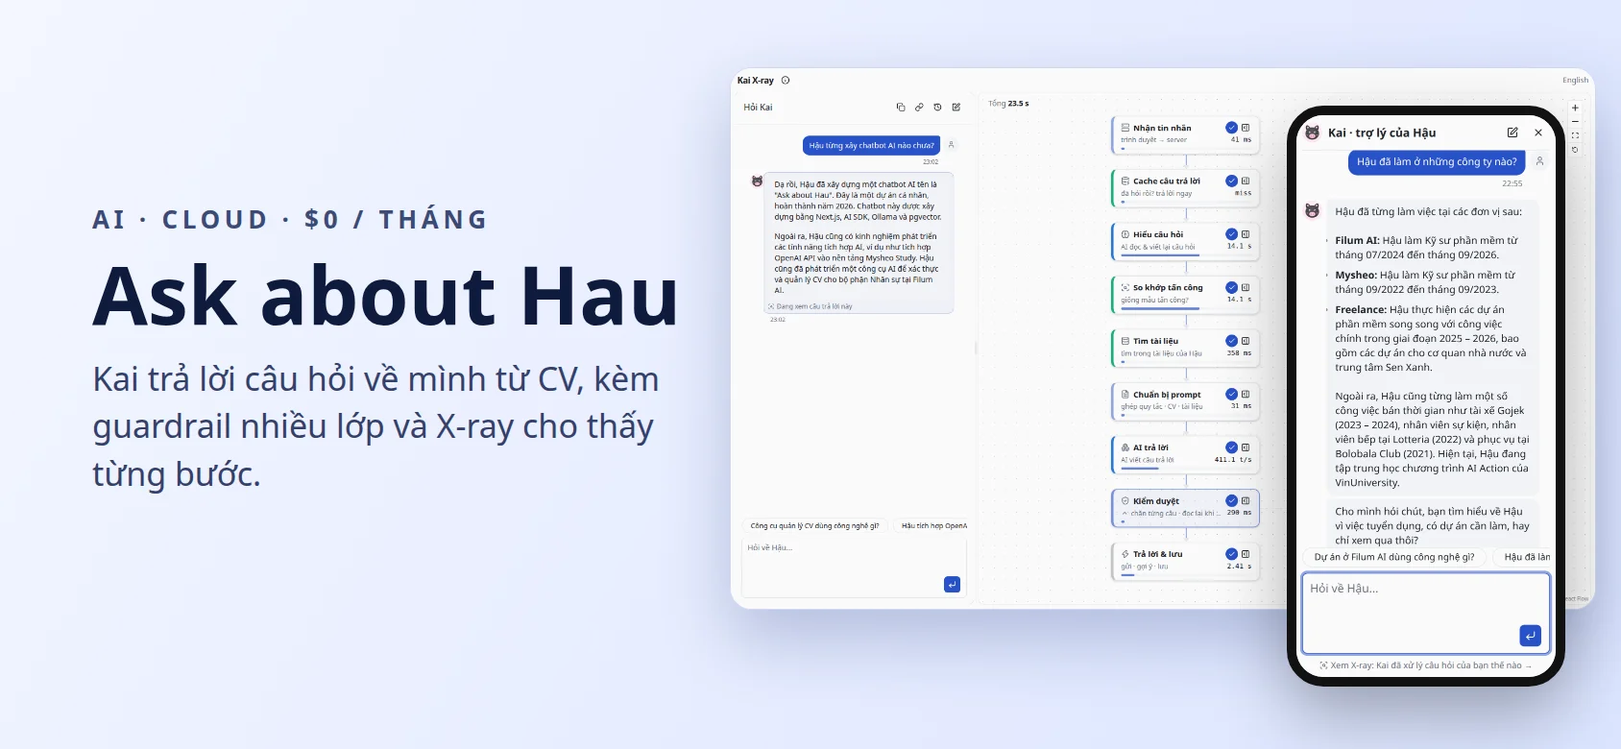
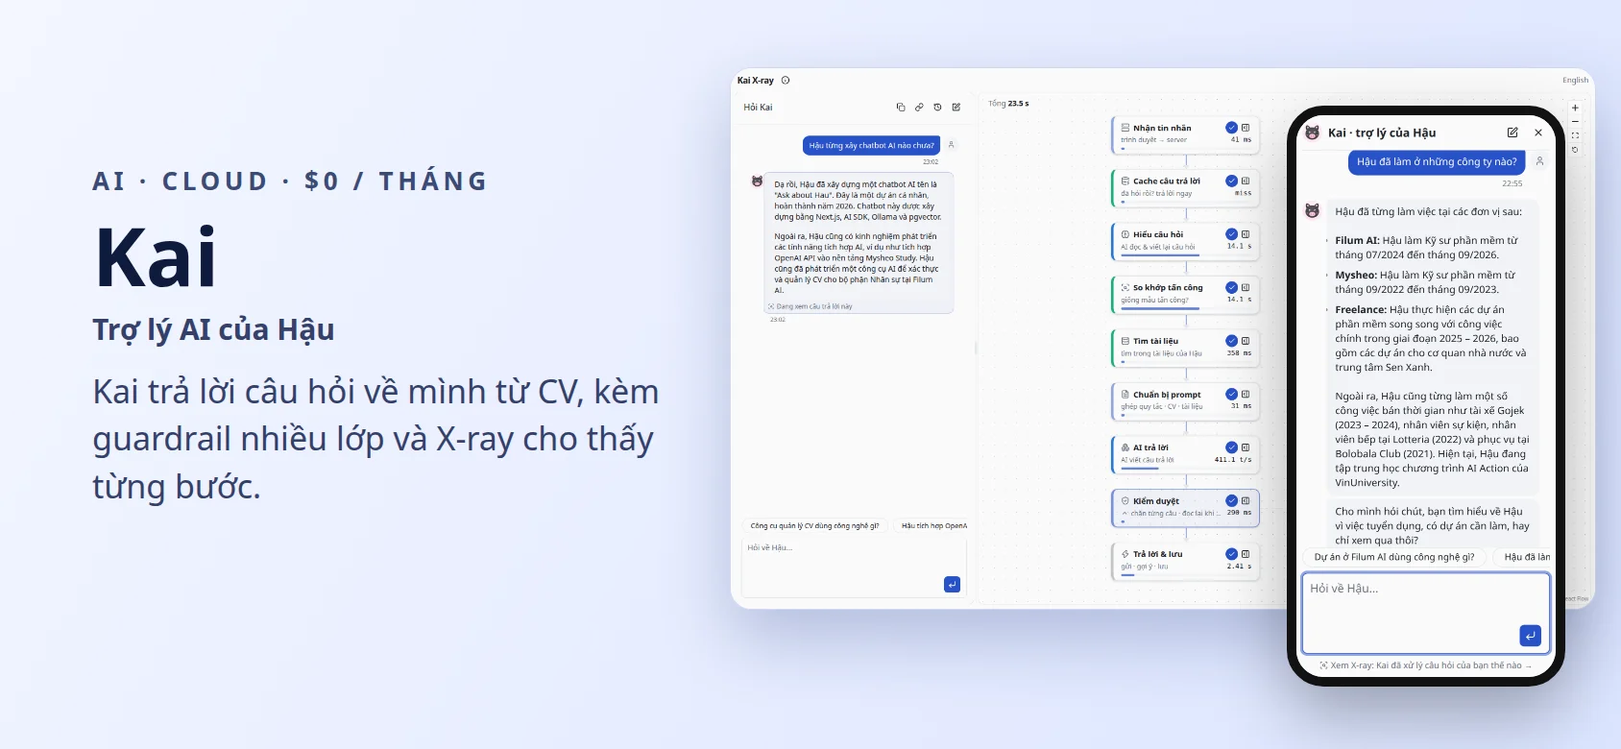
rename project: Ask about Hau → Kai, /projects/cv-chatbot → /projects/kai (old URLs redirect)

Changed region(s): [[0.0616, 0.2154, 0.4313, 0.4615], [0.0616, 0.4923, 0.4005, 0.6769]]

diff --git a/vi/projects/index.html b/vi/projects/index.html
@@ -17,7 +17,7 @@
 <div class="project-filter" role="group" aria-label="Lọc dự án"><button type="button" data-filter="all" aria-pressed="true">Tất cả</button><button type="button" data-filter="ai" aria-pressed="false">AI</button><button type="button" data-filter="work" aria-pressed="false">Công ty</button><button type="button" data-filter="freelance" aria-pressed="false">Freelance</button><button type="button" data-filter="personal" aria-pressed="false">Cá nhân</button></div>
 <div class="project-list" id="project-list">
 <a class="project-card" data-kind="work" data-ai="1" href="filum-cx/"><div class="project-thumb"><span class="badge badge-work">Công ty · Filum AI</span><img src="../../assets/projects/filum-cx-cover-844.webp" srcset="../../assets/projects/filum-cx-cover-844.webp 844w, ../../assets/projects/filum-cx-cover-1688.webp 1688w" sizes="(max-width: 700px) 90vw, 320px" width="844" height="390" loading="lazy" alt="Ảnh bìa Filum CX: hộp thư hợp nhất"></div><div class="project-body"><span class="project-tag">Kỹ sư phần mềm · 2024 — 2026</span><h3>Filum CX</h3><p>Nền tảng tương tác khách hàng đa kênh: một hộp thư cho hơn 10 kênh, chạy trên hơn 80 tích hợp.</p><p class="stack">Next.js · Node.js · GCP · Redis</p><span class="more">Xem dự án →</span></div></a>
-<a class="project-card" data-kind="personal" data-ai="1" href="cv-chatbot/"><div class="project-thumb"><span class="badge badge-personal">Cá nhân</span><img src="../../assets/projects/cv-chatbot-cover-vi-844.webp" srcset="../../assets/projects/cv-chatbot-cover-vi-844.webp 844w, ../../assets/projects/cv-chatbot-cover-vi-1688.webp 1688w" sizes="(max-width: 700px) 90vw, 320px" width="844" height="390" loading="lazy" alt="Ảnh bìa trợ lý chat Ask about Hau"></div><div class="project-body"><span class="project-tag">Dự án AI · 2026</span><h3>Ask about Hau</h3><p>Kai, trợ lý chat trả lời câu hỏi về mình dựa trên CV. Chạy trên cloud với chi phí $0, guardrail nhiều lớp, đặt lịch gọi và trang X-ray công khai cho thấy từng bước.</p><p class="stack">Next.js · AI SDK · Gemini · pgvector · Vercel</p><span class="more">Xem dự án →</span></div></a>
+<a class="project-card" data-kind="personal" data-ai="1" href="kai/"><div class="project-thumb"><span class="badge badge-personal">Cá nhân</span><img src="../../assets/projects/cv-chatbot-cover-vi-844.webp" srcset="../../assets/projects/cv-chatbot-cover-vi-844.webp 844w, ../../assets/projects/cv-chatbot-cover-vi-1688.webp 1688w" sizes="(max-width: 700px) 90vw, 320px" width="844" height="390" loading="lazy" alt="Ảnh bìa Kai, trợ lý AI của Hậu"></div><div class="project-body"><span class="project-tag">Dự án AI · 2026</span><h3>Kai · Trợ lý AI của Hậu</h3><p>Kai, trợ lý chat trả lời câu hỏi về mình dựa trên CV. Chạy trên cloud với chi phí $0, guardrail nhiều lớp, đặt lịch gọi và trang X-ray công khai cho thấy từng bước.</p><p class="stack">Next.js · AI SDK · Gemini · pgvector · Vercel</p><span class="more">Xem dự án →</span></div></a>
 <a class="project-card" data-kind="freelance" href="dh-2026/"><div class="project-thumb"><span class="badge badge-freelance">Freelance</span><img src="../../assets/projects/dh-2026-cover-844.webp" srcset="../../assets/projects/dh-2026-cover-844.webp 844w, ../../assets/projects/dh-2026-cover-1688.webp 1688w" sizes="(max-width: 700px) 90vw, 320px" width="844" height="390" loading="lazy" alt="Ảnh bìa website Đại hội MTTQ Việt Nam 2026"></div><div class="project-body"><span class="project-tag">Freelance · 2026</span><h3>Website Đại hội MTTQ Việt Nam 2026</h3><p>Website tương tác cho Đại hội đại biểu toàn quốc MTTQ Việt Nam lần thứ XI, nội dung quản lý qua CMS.</p><p class="stack">Next.js · Strapi · PostgreSQL · S3</p><span class="more">Xem dự án →</span></div></a>
 <a class="project-card" data-kind="personal" href="tinhdiem-online/"><div class="project-thumb"><span class="badge badge-personal">Cá nhân</span><img src="../../assets/projects/tinhdiem-online-cover-844.webp" srcset="../../assets/projects/tinhdiem-online-cover-844.webp 844w, ../../assets/projects/tinhdiem-online-cover-1688.webp 1688w" sizes="(max-width: 700px) 90vw, 320px" width="844" height="390" loading="lazy" alt="Ảnh bìa Tính Điểm Online"></div><div class="project-body"><span class="project-tag">Website đang chạy · 2026</span><h3>Tính Điểm Online</h3><p>Công cụ tính điểm và GPA miễn phí cho học sinh, sinh viên Việt Nam, hơn 2.500 lượt truy cập mỗi tháng.</p><p class="stack">Next.js · Tailwind · MDX</p><span class="more">Xem dự án →</span></div></a>
 <a class="project-card" data-kind="personal" href="bida-8-bi/"><div class="project-thumb"><span class="badge badge-personal">Cá nhân</span><img src="../../assets/projects/bida-8-bi-game-844.webp" srcset="../../assets/projects/bida-8-bi-game-844.webp 844w, ../../assets/projects/bida-8-bi-game-1688.webp 1688w" sizes="(max-width: 700px) 90vw, 320px" width="844" height="390" loading="lazy" alt="Bàn bida 3D của Bida 8 Bi lúc phá bàn"></div><div class="project-body"><span class="project-tag">Dự án cá nhân · 2026</span><h3>Bida 8 Bi</h3><p>Game bida 8 bi online để chơi với bạn bè: không lag, không quảng cáo, chỉ cần gửi mã phòng. Vibe code để giải nỗi đau của chính mình.</p><p class="stack">Three.js · MQTT · PWA</p><span class="more">Xem dự án →</span></div></a>

diff --git a/projects/index.html b/projects/index.html
@@ -17,7 +17,7 @@
 <div class="project-filter" role="group" aria-label="Filter projects"><button type="button" data-filter="all" aria-pressed="true">All</button><button type="button" data-filter="ai" aria-pressed="false">AI</button><button type="button" data-filter="work" aria-pressed="false">Company</button><button type="button" data-filter="freelance" aria-pressed="false">Freelance</button><button type="button" data-filter="personal" aria-pressed="false">Personal</button></div>
 <div class="project-list" id="project-list">
 <a class="project-card" data-kind="work" data-ai="1" href="filum-cx/"><div class="project-thumb"><span class="badge badge-work">Company · Filum AI</span><img src="../assets/projects/filum-cx-cover-844.webp" srcset="../assets/projects/filum-cx-cover-844.webp 844w, ../assets/projects/filum-cx-cover-1688.webp 1688w" sizes="(max-width: 700px) 90vw, 320px" width="844" height="390" loading="lazy" alt="Filum CX cover: the unified inbox"></div><div class="project-body"><span class="project-tag">Software Engineer · 2024 — 2026</span><h3>Filum CX</h3><p>Omnichannel customer engagement platform: one inbox for 10+ channels, backed by 80+ integrations.</p><p class="stack">Next.js · Node.js · GCP · Redis</p><span class="more">View project →</span></div></a>
-<a class="project-card" data-kind="personal" data-ai="1" href="cv-chatbot/"><div class="project-thumb"><span class="badge badge-personal">Personal</span><img src="../assets/projects/cv-chatbot-cover-844.webp" srcset="../assets/projects/cv-chatbot-cover-844.webp 844w, ../assets/projects/cv-chatbot-cover-1688.webp 1688w" sizes="(max-width: 700px) 90vw, 320px" width="844" height="390" loading="lazy" alt="Ask about Hau chat assistant cover"></div><div class="project-body"><span class="project-tag">AI project · 2026</span><h3>Ask about Hau</h3><p>Kai, a chat assistant that answers questions about me from my CV. Runs in the cloud for $0, with layered guardrails, call booking and a public X-ray of every step.</p><p class="stack">Next.js · AI SDK · Gemini · pgvector · Vercel</p><span class="more">View project →</span></div></a>
+<a class="project-card" data-kind="personal" data-ai="1" href="kai/"><div class="project-thumb"><span class="badge badge-personal">Personal</span><img src="../assets/projects/cv-chatbot-cover-844.webp" srcset="../assets/projects/cv-chatbot-cover-844.webp 844w, ../assets/projects/cv-chatbot-cover-1688.webp 1688w" sizes="(max-width: 700px) 90vw, 320px" width="844" height="390" loading="lazy" alt="Kai, Hau’s AI assistant: cover"></div><div class="project-body"><span class="project-tag">AI project · 2026</span><h3>Kai · Hau’s AI assistant</h3><p>Kai, a chat assistant that answers questions about me from my CV. Runs in the cloud for $0, with layered guardrails, call booking and a public X-ray of every step.</p><p class="stack">Next.js · AI SDK · Gemini · pgvector · Vercel</p><span class="more">View project →</span></div></a>
 <a class="project-card" data-kind="freelance" href="dh-2026/"><div class="project-thumb"><span class="badge badge-freelance">Freelance</span><img src="../assets/projects/dh-2026-cover-844.webp" srcset="../assets/projects/dh-2026-cover-844.webp 844w, ../assets/projects/dh-2026-cover-1688.webp 1688w" sizes="(max-width: 700px) 90vw, 320px" width="844" height="390" loading="lazy" alt="Vietnam Fatherland Front Congress 2026 website cover"></div><div class="project-body"><span class="project-tag">Freelance · 2026</span><h3>Vietnam Fatherland Front Congress 2026</h3><p>Interactive website for the 11th National Congress of the Vietnam Fatherland Front, with content managed in a CMS.</p><p class="stack">Next.js · Strapi · PostgreSQL · S3</p><span class="more">View project →</span></div></a>
 <a class="project-card" data-kind="personal" href="tinhdiem-online/"><div class="project-thumb"><span class="badge badge-personal">Personal</span><img src="../assets/projects/tinhdiem-online-cover-844.webp" srcset="../assets/projects/tinhdiem-online-cover-844.webp 844w, ../assets/projects/tinhdiem-online-cover-1688.webp 1688w" sizes="(max-width: 700px) 90vw, 320px" width="844" height="390" loading="lazy" alt="Tính Điểm Online cover"></div><div class="project-body"><span class="project-tag">Live website · 2026</span><h3>Tính Điểm Online</h3><p>Free grade and GPA calculator for Vietnamese students, with 2,500+ visits a month.</p><p class="stack">Next.js · Tailwind · MDX</p><span class="more">View project →</span></div></a>
 <a class="project-card" data-kind="personal" href="bida-8-bi/"><div class="project-thumb"><span class="badge badge-personal">Personal</span><img src="../assets/projects/bida-8-bi-game-844.webp" srcset="../assets/projects/bida-8-bi-game-844.webp 844w, ../assets/projects/bida-8-bi-game-1688.webp 1688w" sizes="(max-width: 700px) 90vw, 320px" width="844" height="390" loading="lazy" alt="Bida 8 Bi 3D pool table at the break"></div><div class="project-body"><span class="project-tag">Personal project · 2026</span><h3>Bida 8 Bi</h3><p>Online 8-ball pool to play with friends: no lag, no ads, just send a room code. Vibe coded to fix my own pain point.</p><p class="stack">Three.js · MQTT · PWA</p><span class="more">View project →</span></div></a>

diff --git a/vi/index.html b/vi/index.html
@@ -24,7 +24,7 @@
 <div class="carousel project-grid" id="project-grid" data-dots="project-dots" data-autoplay>
 <!-- projects:start -->
 <a class="project-card" data-kind="work" data-ai="1" href="projects/filum-cx/"><div class="project-thumb"><span class="badge badge-work">Công ty · Filum AI</span><img src="../assets/projects/filum-cx-cover-844.webp" srcset="../assets/projects/filum-cx-cover-844.webp 844w, ../assets/projects/filum-cx-cover-1688.webp 1688w" sizes="(max-width: 700px) 90vw, 320px" width="844" height="390" loading="lazy" alt="Ảnh bìa Filum CX: hộp thư hợp nhất"></div><div class="project-body"><span class="project-tag">Kỹ sư phần mềm · 2024 — 2026</span><h3>Filum CX</h3><p>Nền tảng tương tác khách hàng đa kênh: một hộp thư cho hơn 10 kênh, chạy trên hơn 80 tích hợp.</p><p class="stack">Next.js · Node.js · GCP · Redis</p><span class="more">Xem dự án →</span></div></a>
-<a class="project-card" data-kind="personal" data-ai="1" href="projects/cv-chatbot/"><div class="project-thumb"><span class="badge badge-personal">Cá nhân</span><img src="../assets/projects/cv-chatbot-cover-vi-844.webp" srcset="../assets/projects/cv-chatbot-cover-vi-844.webp 844w, ../assets/projects/cv-chatbot-cover-vi-1688.webp 1688w" sizes="(max-width: 700px) 90vw, 320px" width="844" height="390" loading="lazy" alt="Ảnh bìa trợ lý chat Ask about Hau"></div><div class="project-body"><span class="project-tag">Dự án AI · 2026</span><h3>Ask about Hau</h3><p>Kai, trợ lý chat trả lời câu hỏi về mình dựa trên CV. Chạy trên cloud với chi phí $0, guardrail nhiều lớp, đặt lịch gọi và trang X-ray công khai cho thấy từng bước.</p><p class="stack">Next.js · AI SDK · Gemini · pgvector · Vercel</p><span class="more">Xem dự án →</span></div></a>
+<a class="project-card" data-kind="personal" data-ai="1" href="projects/kai/"><div class="project-thumb"><span class="badge badge-personal">Cá nhân</span><img src="../assets/projects/cv-chatbot-cover-vi-844.webp" srcset="../assets/projects/cv-chatbot-cover-vi-844.webp 844w, ../assets/projects/cv-chatbot-cover-vi-1688.webp 1688w" sizes="(max-width: 700px) 90vw, 320px" width="844" height="390" loading="lazy" alt="Ảnh bìa Kai, trợ lý AI của Hậu"></div><div class="project-body"><span class="project-tag">Dự án AI · 2026</span><h3>Kai · Trợ lý AI của Hậu</h3><p>Kai, trợ lý chat trả lời câu hỏi về mình dựa trên CV. Chạy trên cloud với chi phí $0, guardrail nhiều lớp, đặt lịch gọi và trang X-ray công khai cho thấy từng bước.</p><p class="stack">Next.js · AI SDK · Gemini · pgvector · Vercel</p><span class="more">Xem dự án →</span></div></a>
 <a class="project-card" data-kind="freelance" href="projects/dh-2026/"><div class="project-thumb"><span class="badge badge-freelance">Freelance</span><img src="../assets/projects/dh-2026-cover-844.webp" srcset="../assets/projects/dh-2026-cover-844.webp 844w, ../assets/projects/dh-2026-cover-1688.webp 1688w" sizes="(max-width: 700px) 90vw, 320px" width="844" height="390" loading="lazy" alt="Ảnh bìa website Đại hội MTTQ Việt Nam 2026"></div><div class="project-body"><span class="project-tag">Freelance · 2026</span><h3>Website Đại hội MTTQ Việt Nam 2026</h3><p>Website tương tác cho Đại hội đại biểu toàn quốc MTTQ Việt Nam lần thứ XI, nội dung quản lý qua CMS.</p><p class="stack">Next.js · Strapi · PostgreSQL · S3</p><span class="more">Xem dự án →</span></div></a>
 <a class="project-card" data-kind="personal" href="projects/tinhdiem-online/"><div class="project-thumb"><span class="badge badge-personal">Cá nhân</span><img src="../assets/projects/tinhdiem-online-cover-844.webp" srcset="../assets/projects/tinhdiem-online-cover-844.webp 844w, ../assets/projects/tinhdiem-online-cover-1688.webp 1688w" sizes="(max-width: 700px) 90vw, 320px" width="844" height="390" loading="lazy" alt="Ảnh bìa Tính Điểm Online"></div><div class="project-body"><span class="project-tag">Website đang chạy · 2026</span><h3>Tính Điểm Online</h3><p>Công cụ tính điểm và GPA miễn phí cho học sinh, sinh viên Việt Nam, hơn 2.500 lượt truy cập mỗi tháng.</p><p class="stack">Next.js · Tailwind · MDX</p><span class="more">Xem dự án →</span></div></a>
 <a class="project-card" data-kind="personal" href="projects/bida-8-bi/"><div class="project-thumb"><span class="badge badge-personal">Cá nhân</span><img src="../assets/projects/bida-8-bi-game-844.webp" srcset="../assets/projects/bida-8-bi-game-844.webp 844w, ../assets/projects/bida-8-bi-game-1688.webp 1688w" sizes="(max-width: 700px) 90vw, 320px" width="844" height="390" loading="lazy" alt="Bàn bida 3D của Bida 8 Bi lúc phá bàn"></div><div class="project-body"><span class="project-tag">Dự án cá nhân · 2026</span><h3>Bida 8 Bi</h3><p>Game bida 8 bi online để chơi với bạn bè: không lag, không quảng cáo, chỉ cần gửi mã phòng. Vibe code để giải nỗi đau của chính mình.</p><p class="stack">Three.js · MQTT · PWA</p><span class="more">Xem dự án →</span></div></a>

diff --git a/index.html b/index.html
@@ -24,7 +24,7 @@
 <div class="carousel project-grid" id="project-grid" data-dots="project-dots" data-autoplay>
 <!-- projects:start -->
 <a class="project-card" data-kind="work" data-ai="1" href="projects/filum-cx/"><div class="project-thumb"><span class="badge badge-work">Company · Filum AI</span><img src="assets/projects/filum-cx-cover-844.webp" srcset="assets/projects/filum-cx-cover-844.webp 844w, assets/projects/filum-cx-cover-1688.webp 1688w" sizes="(max-width: 700px) 90vw, 320px" width="844" height="390" loading="lazy" alt="Filum CX cover: the unified inbox"></div><div class="project-body"><span class="project-tag">Software Engineer · 2024 — 2026</span><h3>Filum CX</h3><p>Omnichannel customer engagement platform: one inbox for 10+ channels, backed by 80+ integrations.</p><p class="stack">Next.js · Node.js · GCP · Redis</p><span class="more">View project →</span></div></a>
-<a class="project-card" data-kind="personal" data-ai="1" href="projects/cv-chatbot/"><div class="project-thumb"><span class="badge badge-personal">Personal</span><img src="assets/projects/cv-chatbot-cover-844.webp" srcset="assets/projects/cv-chatbot-cover-844.webp 844w, assets/projects/cv-chatbot-cover-1688.webp 1688w" sizes="(max-width: 700px) 90vw, 320px" width="844" height="390" loading="lazy" alt="Ask about Hau chat assistant cover"></div><div class="project-body"><span class="project-tag">AI project · 2026</span><h3>Ask about Hau</h3><p>Kai, a chat assistant that answers questions about me from my CV. Runs in the cloud for $0, with layered guardrails, call booking and a public X-ray of every step.</p><p class="stack">Next.js · AI SDK · Gemini · pgvector · Vercel</p><span class="more">View project →</span></div></a>
+<a class="project-card" data-kind="personal" data-ai="1" href="projects/kai/"><div class="project-thumb"><span class="badge badge-personal">Personal</span><img src="assets/projects/cv-chatbot-cover-844.webp" srcset="assets/projects/cv-chatbot-cover-844.webp 844w, assets/projects/cv-chatbot-cover-1688.webp 1688w" sizes="(max-width: 700px) 90vw, 320px" width="844" height="390" loading="lazy" alt="Kai, Hau’s AI assistant: cover"></div><div class="project-body"><span class="project-tag">AI project · 2026</span><h3>Kai · Hau’s AI assistant</h3><p>Kai, a chat assistant that answers questions about me from my CV. Runs in the cloud for $0, with layered guardrails, call booking and a public X-ray of every step.</p><p class="stack">Next.js · AI SDK · Gemini · pgvector · Vercel</p><span class="more">View project →</span></div></a>
 <a class="project-card" data-kind="freelance" href="projects/dh-2026/"><div class="project-thumb"><span class="badge badge-freelance">Freelance</span><img src="assets/projects/dh-2026-cover-844.webp" srcset="assets/projects/dh-2026-cover-844.webp 844w, assets/projects/dh-2026-cover-1688.webp 1688w" sizes="(max-width: 700px) 90vw, 320px" width="844" height="390" loading="lazy" alt="Vietnam Fatherland Front Congress 2026 website cover"></div><div class="project-body"><span class="project-tag">Freelance · 2026</span><h3>Vietnam Fatherland Front Congress 2026</h3><p>Interactive website for the 11th National Congress of the Vietnam Fatherland Front, with content managed in a CMS.</p><p class="stack">Next.js · Strapi · PostgreSQL · S3</p><span class="more">View project →</span></div></a>
 <a class="project-card" data-kind="personal" href="projects/tinhdiem-online/"><div class="project-thumb"><span class="badge badge-personal">Personal</span><img src="assets/projects/tinhdiem-online-cover-844.webp" srcset="assets/projects/tinhdiem-online-cover-844.webp 844w, assets/projects/tinhdiem-online-cover-1688.webp 1688w" sizes="(max-width: 700px) 90vw, 320px" width="844" height="390" loading="lazy" alt="Tính Điểm Online cover"></div><div class="project-body"><span class="project-tag">Live website · 2026</span><h3>Tính Điểm Online</h3><p>Free grade and GPA calculator for Vietnamese students, with 2,500+ visits a month.</p><p class="stack">Next.js · Tailwind · MDX</p><span class="more">View project →</span></div></a>
 <a class="project-card" data-kind="personal" href="projects/bida-8-bi/"><div class="project-thumb"><span class="badge badge-personal">Personal</span><img src="assets/projects/bida-8-bi-game-844.webp" srcset="assets/projects/bida-8-bi-game-844.webp 844w, assets/projects/bida-8-bi-game-1688.webp 1688w" sizes="(max-width: 700px) 90vw, 320px" width="844" height="390" loading="lazy" alt="Bida 8 Bi 3D pool table at the break"></div><div class="project-body"><span class="project-tag">Personal project · 2026</span><h3>Bida 8 Bi</h3><p>Online 8-ball pool to play with friends: no lag, no ads, just send a room code. Vibe coded to fix my own pain point.</p><p class="stack">Three.js · MQTT · PWA</p><span class="more">View project →</span></div></a>

diff --git a/vi/projects/kai/index.html b/vi/projects/kai/index.html
@@ -4,16 +4,16 @@
 <meta charset="utf-8"><meta name="viewport" content="width=device-width,initial-scale=1">
 <meta name="google-site-verification" content="4zWluxktiTapGxPk52J-zz-eBmtZgL09MhFLPgTqvlY">
 <meta name="description" content="Kai, trợ lý chat trả lời câu hỏi về mình dựa trên CV: chạy trên cloud với chi phí $0, guardrail nhiều lớp, trang X-ray cho thấy từng bước, đặt lịch gọi thẳng vào lịch của mình.">
-<meta name="theme-color" content="#fafafa"><title>Ask about Hau — Phan Trọng Hậu</title>
-<link rel="icon" href="../../../assets/favicon.svg" type="image/svg+xml"><link rel="alternate" hreflang="en" href="../../../projects/cv-chatbot/">
+<meta name="theme-color" content="#fafafa"><title>Kai · Trợ lý AI của Hậu — Phan Trọng Hậu</title>
+<link rel="icon" href="../../../assets/favicon.svg" type="image/svg+xml"><link rel="alternate" hreflang="en" href="../../../projects/kai/">
 <link rel="alternate" hreflang="vi" href="./">
 <link rel="stylesheet" href="../../../styles.css">
 </head>
 <body>
 
 <main class="container" id="home">
-<div class="topbar"><a class="back" href="../../#projects">← Về trang chủ</a><nav class="lang" aria-label="Ngôn ngữ"><a href="../../../projects/cv-chatbot/" lang="en">EN</a><a href="./" lang="vi" aria-current="page">VI</a></nav></div>
-<section class="project-hero" aria-labelledby="project-title"><p class="label">DỰ ÁN AI · 2026</p><h1 id="project-title">Ask about Hau</h1><p class="intro-text">Kai, trợ lý chat trả lời câu hỏi của người xem về mình, dựa trên CV và nội dung portfolio. Kai chạy hoàn toàn trên cloud với chi phí $0 mỗi tháng, có guardrail nhiều lớp, đặt lịch gọi được, và một trang X-ray cho bất kỳ ai xem từng bước Kai xử lý câu hỏi.</p><ul class="chips"><li>Next.js 16</li><li>TypeScript</li><li>Vercel AI SDK</li><li>Vercel</li><li>Neon Postgres</li><li>pgvector</li><li>Gemini API</li><li>Gemma 4</li><li>Drizzle ORM</li><li>Better Auth</li><li>React Flow</li><li>TanStack</li><li>Google Calendar API</li><li>Vitest</li><li>Playwright</li></ul><p class="kai-live-wrap"><a class="button kai-live" href="#" hidden>Xem Kai chạy trực tiếp: một câu hỏi đi qua từng bước →</a></p><p class="private-note">Đang chạy công khai tại kai.phantronghau.com, chính là widget ở góc trang này. Mã nguồn để ở repository riêng tư.</p></section>
+<div class="topbar"><a class="back" href="../../#projects">← Về trang chủ</a><nav class="lang" aria-label="Ngôn ngữ"><a href="../../../projects/kai/" lang="en">EN</a><a href="./" lang="vi" aria-current="page">VI</a></nav></div>
+<section class="project-hero" aria-labelledby="project-title"><p class="label">DỰ ÁN AI · 2026</p><h1 id="project-title">Kai · Trợ lý AI của Hậu</h1><p class="intro-text">Kai, trợ lý chat trả lời câu hỏi của người xem về mình, dựa trên CV và nội dung portfolio. Kai chạy hoàn toàn trên cloud với chi phí $0 mỗi tháng, có guardrail nhiều lớp, đặt lịch gọi được, và một trang X-ray cho bất kỳ ai xem từng bước Kai xử lý câu hỏi.</p><ul class="chips"><li>Next.js 16</li><li>TypeScript</li><li>Vercel AI SDK</li><li>Vercel</li><li>Neon Postgres</li><li>pgvector</li><li>Gemini API</li><li>Gemma 4</li><li>Drizzle ORM</li><li>Better Auth</li><li>React Flow</li><li>TanStack</li><li>Google Calendar API</li><li>Vitest</li><li>Playwright</li></ul><p class="kai-live-wrap"><a class="button kai-live" href="#" hidden>Xem Kai chạy trực tiếp: một câu hỏi đi qua từng bước →</a></p><p class="private-note">Đang chạy công khai tại kai.phantronghau.com, chính là widget ở góc trang này. Mã nguồn để ở repository riêng tư.</p></section>
 <figure class="shot"><img class="cover" src="../../../assets/projects/cv-chatbot-cover-vi-1688.webp" srcset="../../../assets/projects/cv-chatbot-cover-vi-844.webp 844w, ../../../assets/projects/cv-chatbot-cover-vi-1688.webp 1688w" sizes="(max-width: 1040px) 100vw, 980px" width="1688" height="780" alt="Ảnh bìa Ask about Hau: trang X-ray và widget chat trên điện thoại"></figure>
 
 <section class="section section-after-shot" aria-labelledby="summary-title"><div class="section-heading"><h2 id="summary-title">Tóm tắt</h2></div>

diff --git a/projects/kai/index.html b/projects/kai/index.html
@@ -4,16 +4,16 @@
 <meta charset="utf-8"><meta name="viewport" content="width=device-width,initial-scale=1">
 <meta name="google-site-verification" content="4zWluxktiTapGxPk52J-zz-eBmtZgL09MhFLPgTqvlY">
 <meta name="description" content="Kai, a chat assistant that answers questions about me from my CV: it runs in the cloud for $0, with layered guardrails, a public X-ray of every step, and call booking straight into my calendar.">
-<meta name="theme-color" content="#fafafa"><title>Ask about Hau — Phan Trong Hau</title>
+<meta name="theme-color" content="#fafafa"><title>Kai · Hau’s AI assistant — Phan Trong Hau</title>
 <link rel="icon" href="../../assets/favicon.svg" type="image/svg+xml"><link rel="alternate" hreflang="en" href="./">
-<link rel="alternate" hreflang="vi" href="../../vi/projects/cv-chatbot/">
+<link rel="alternate" hreflang="vi" href="../../vi/projects/kai/">
 <link rel="stylesheet" href="../../styles.css">
 </head>
 <body>
 
 <main class="container" id="home">
-<div class="topbar"><a class="back" href="../../#projects">← Back to home</a><nav class="lang" aria-label="Language"><a href="./" lang="en" aria-current="page">EN</a><a href="../../vi/projects/cv-chatbot/" lang="vi">VI</a></nav></div>
-<section class="project-hero" aria-labelledby="project-title"><p class="label">AI PROJECT · 2026</p><h1 id="project-title">Ask about Hau</h1><p class="intro-text">Kai, a chat assistant that answers visitors’ questions about me from my CV and portfolio. It runs fully in the cloud for $0 a month, with layered guardrails, call booking, and an X-ray page where anyone can watch each step Kai takes on a question.</p><ul class="chips"><li>Next.js 16</li><li>TypeScript</li><li>Vercel AI SDK</li><li>Vercel</li><li>Neon Postgres</li><li>pgvector</li><li>Gemini API</li><li>Gemma 4</li><li>Drizzle ORM</li><li>Better Auth</li><li>React Flow</li><li>TanStack</li><li>Google Calendar API</li><li>Vitest</li><li>Playwright</li></ul><p class="kai-live-wrap"><a class="button kai-live" href="#" hidden>Watch Kai live: a question through every step →</a></p><p class="private-note">Live at kai.phantronghau.com: it is the widget in the corner of this page. The source code is in a private repository.</p></section>
+<div class="topbar"><a class="back" href="../../#projects">← Back to home</a><nav class="lang" aria-label="Language"><a href="./" lang="en" aria-current="page">EN</a><a href="../../vi/projects/kai/" lang="vi">VI</a></nav></div>
+<section class="project-hero" aria-labelledby="project-title"><p class="label">AI PROJECT · 2026</p><h1 id="project-title">Kai · Hau’s AI assistant</h1><p class="intro-text">Kai, a chat assistant that answers visitors’ questions about me from my CV and portfolio. It runs fully in the cloud for $0 a month, with layered guardrails, call booking, and an X-ray page where anyone can watch each step Kai takes on a question.</p><ul class="chips"><li>Next.js 16</li><li>TypeScript</li><li>Vercel AI SDK</li><li>Vercel</li><li>Neon Postgres</li><li>pgvector</li><li>Gemini API</li><li>Gemma 4</li><li>Drizzle ORM</li><li>Better Auth</li><li>React Flow</li><li>TanStack</li><li>Google Calendar API</li><li>Vitest</li><li>Playwright</li></ul><p class="kai-live-wrap"><a class="button kai-live" href="#" hidden>Watch Kai live: a question through every step →</a></p><p class="private-note">Live at kai.phantronghau.com: it is the widget in the corner of this page. The source code is in a private repository.</p></section>
 <figure class="shot"><img class="cover" src="../../../assets/projects/cv-chatbot-cover-1688.webp" srcset="../../../assets/projects/cv-chatbot-cover-844.webp 844w, ../../../assets/projects/cv-chatbot-cover-1688.webp 1688w" sizes="(max-width: 1040px) 100vw, 980px" width="1688" height="780" alt="Ask about Hau cover: the X-ray page and the chat widget on a phone"></figure>
 
 <section class="section section-after-shot" aria-labelledby="summary-title"><div class="section-heading"><h2 id="summary-title">Summary</h2></div>

diff --git a/vi/blog/kinh-nghiem-dung-ai-2026/index.html b/vi/blog/kinh-nghiem-dung-ai-2026/index.html
@@ -29,7 +29,7 @@
 <p>Với một dự án cá nhân, cách này cực kỳ hiệu quả. Nhưng có những thứ AI không tự biết là &quot;chưa đúng&quot;. Ví dụ rõ nhất là âm thanh: tiếng bi chạm nhau tạo bằng Web Audio nghe &quot;đúng kỹ thuật&quot; nhưng giả. Mình chuyển sang dùng tiếng ghi âm thật (giấy phép CC0) và game có cảm giác khác hẳn.</p>
 <p>AI rất giỏi làm ra thứ <strong>chạy được</strong>. Còn thứ <strong>đúng cảm giác</strong> thì vẫn cần một người chơi thử và nói &quot;chưa phải&quot;.</p>
 <h2 id="3-voi-san-pham-ai-hay-do-bang-so-chu-dung-do-bang-cam-giac"><a class="anchor" href="#3-voi-san-pham-ai-hay-do-bang-so-chu-dung-do-bang-cam-giac" aria-hidden="true">#</a>3. Với sản phẩm AI, hãy đo bằng số chứ đừng đo bằng cảm giác</h2>
-<p>Dự án mình học được nhiều nhất năm nay là <a href="../../projects/cv-chatbot/">Kai</a>, chatbot trả lời câu hỏi về mình dựa trên CV. Nó chạy bằng mô hình nhỏ Qwen3 4B ngay trên laptop.</p>
+<p>Dự án mình học được nhiều nhất năm nay là <a href="../../projects/kai/">Kai</a>, chatbot trả lời câu hỏi về mình dựa trên CV. Nó chạy bằng mô hình nhỏ Qwen3 4B ngay trên laptop.</p>
 <p>Một chatbot nói về người thật thì không được bịa nơi làm việc, ngày tháng hay con số. Hỏi thử vài câu thấy ổn không chứng minh được gì, nên mình viết một bộ eval chạy bằng một lệnh. Bộ câu hỏi gồm:</p>
 <ul>
 <li>câu hỏi thông tin bằng cả tiếng Việt và tiếng Anh,</li>

diff --git a/blog/kinh-nghiem-dung-ai-2026/index.html b/blog/kinh-nghiem-dung-ai-2026/index.html
@@ -29,7 +29,7 @@
 <p>For a personal project, this works incredibly well. But there are things AI can&#39;t tell are &quot;not right yet&quot;. The clearest example was sound: ball clicks synthesized with Web Audio were technically correct but sounded fake. I switched to real recordings (CC0 licensed) and the game felt completely different.</p>
 <p>AI is very good at making something that <strong>works</strong>. Making something that <strong>feels right</strong> still takes a person playing it and saying &quot;not yet&quot;.</p>
 <h2 id="3-for-ai-products-measure-with-numbers-not-gut-feeling"><a class="anchor" href="#3-for-ai-products-measure-with-numbers-not-gut-feeling" aria-hidden="true">#</a>3. For AI products, measure with numbers, not gut feeling</h2>
-<p>The project I learned the most from this year is <a href="../../projects/cv-chatbot/">Kai</a>, a chatbot that answers questions about me based on my CV. It runs on a small model, Qwen3 4B, right on my laptop.</p>
+<p>The project I learned the most from this year is <a href="../../projects/kai/">Kai</a>, a chatbot that answers questions about me based on my CV. It runs on a small model, Qwen3 4B, right on my laptop.</p>
 <p>A chatbot that talks about a real person must never make up employers, dates, or numbers. Trying a few questions and seeing that they look fine proves nothing, so I wrote an eval suite that runs with one command. It includes:</p>
 <ul>
 <li>factual questions in both Vietnamese and English,</li>

diff --git a/content/blog/kinh-nghiem-dung-ai-2026/en.md b/content/blog/kinh-nghiem-dung-ai-2026/en.md
@@ -33,7 +33,7 @@ AI is very good at making something that **works**. Making something that **feel
 
 ## 3. For AI products, measure with numbers, not gut feeling
 
-The project I learned the most from this year is [Kai](../../projects/cv-chatbot/), a chatbot that answers questions about me based on my CV. It runs on a small model, Qwen3 4B, right on my laptop.
+The project I learned the most from this year is [Kai](../../projects/kai/), a chatbot that answers questions about me based on my CV. It runs on a small model, Qwen3 4B, right on my laptop.
 
 A chatbot that talks about a real person must never make up employers, dates, or numbers. Trying a few questions and seeing that they look fine proves nothing, so I wrote an eval suite that runs with one command. It includes:
 
